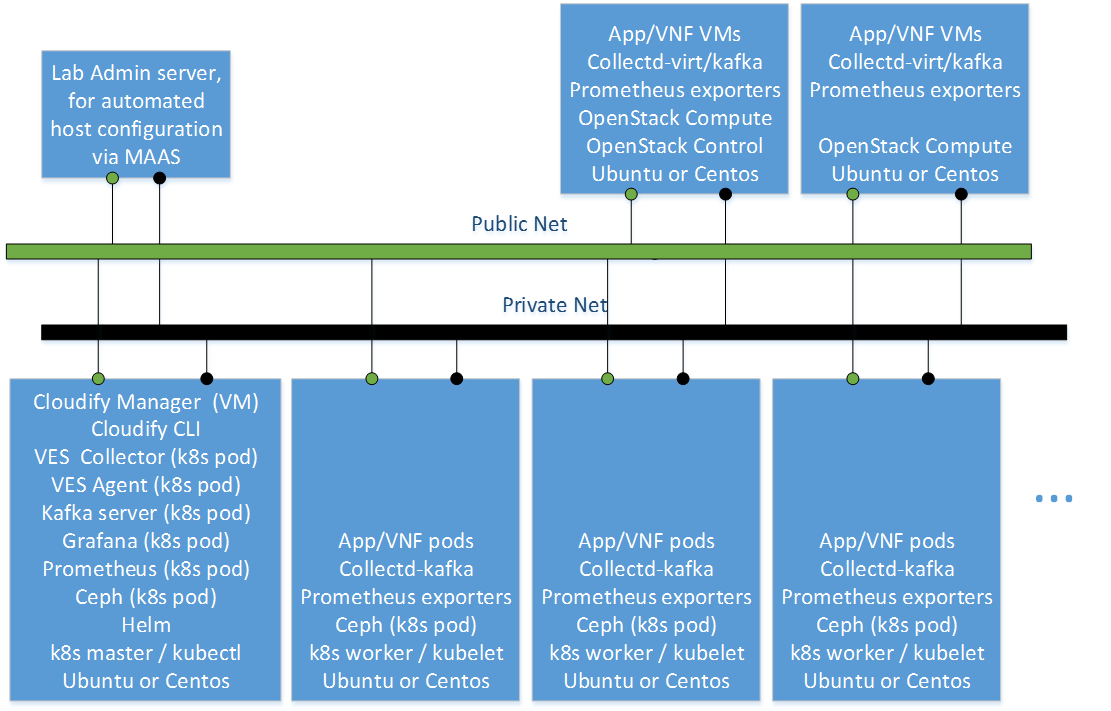
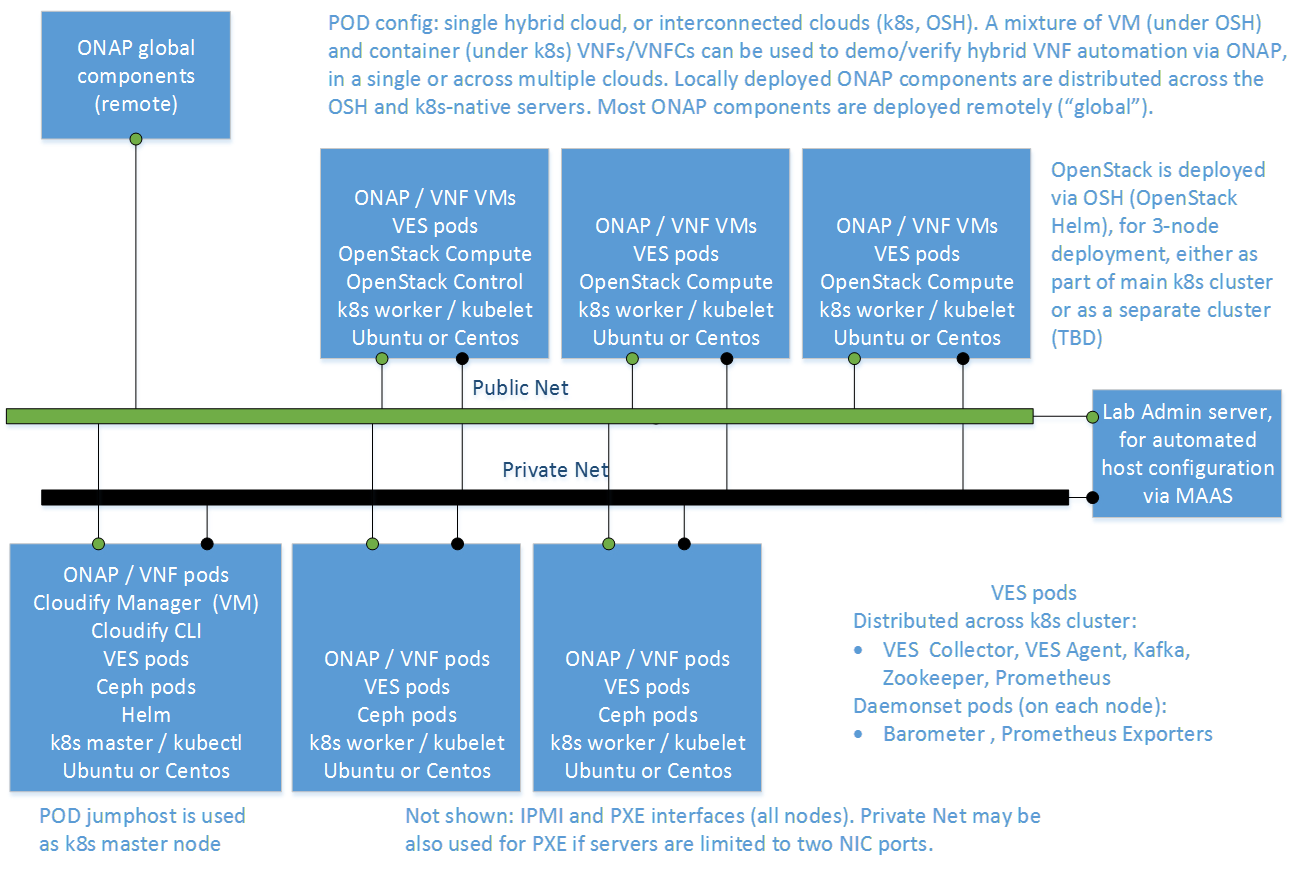
Update diagram and readme's
JIRA: MODELS-2

diff --git a/tools/kubernetes/README.md b/tools/kubernetes/README.md
@@ -12,11 +12,11 @@ This folder contains scripts etc to setup a kubernetes cluster with the followin
 * Kubernetes
   * single k8s master node
   * other k8s cluster worker nodes
-* Ceph: backend for persistent volume claims (PVCs) for the k8s cluster, deployed using Helm charts from https://github.com/att/netarbiter
+* Ceph: backend for persistent volume claims (PVCs) for the k8s cluster, deployed using Helm charts from [netarbiter](https://github.com/att/netarbiter)
 * Helm on k8s master (used for initial cluster deployment only)
-  * demo helm charts for Helm install verification etc, cloned from https://github.com/kubernetes/charts and modified/tested to work on this cluster
+  * demo helm charts for Helm install verification etc, cloned from [kubernetes charts](https://github.com/kubernetes/charts) and modified/tested to work on this cluster
 * Prometheus: server on the k8s master, exporters on the k8s workers
-* Cloudify CLI and Cloudify Manager with Kubernetes plugin (https://github.com/cloudify-incubator/cloudify-kubernetes-plugin)
+* Cloudify CLI and Cloudify Manager with [Kubernetes plugin](https://github.com/cloudify-incubator/cloudify-kubernetes-plugin)
 * OPNFV VES Collector and Agent
 * OPNFV Barometer collectd plugin with libvirt and kafka support
 * As many components as possible above will be deployed using k8s charts, managed either through Helm or Cloudify
@@ -25,7 +25,7 @@ A larger goal of this work is to demonstrate hybrid cloud deployment as indicate
 
 Here is an overview of the deployment process, which if desired can be completed via a single script, in about 50 minutes for a four-node k8s cluster of production-grade servers.
 * demo_deploy.sh: wrapper for the complete process
-  * ../maas/deploy.sh: deploys the bare metal host OS (Ubuntu or Centos currently)
+  * [/tools/maas/deploy.sh](/tools/maas/deploy.sh): deploys the bare metal host OS (Ubuntu or Centos currently)
   * k8s-cluster.sh: deploy k8s cluster
     * deploy k8s master
     * deploy k8s workers
@@ -33,8 +33,8 @@ Here is an overview of the deployment process, which if desired can be completed
     * verify operation with a hello world k8s chart (nginx)
     * deploy ceph (ceph-helm or on bare metal) and verify basic PVC jobs
     * verify operation with a more complex (PVC-dependent) k8s chart (dokuwiki)
-  * ../prometheus/prometheus-tools.sh: setup prometheus server, exporters on all nodes, and grafana
-  * ../cloudify/k8s-cloudify.sh: setup cloudify (cli and manager)
+  * [/tools/prometheus/prometheus-tools.sh](/tools/prometheus/prometheus-tools.sh): setup prometheus server, exporters on all nodes, and grafana
+  * [/tools/cloudify/k8s-cloudify.sh](/tools/cloudify/k8s-cloudify.sh): setup cloudify (cli and manager)
   * verify kubernetes+ceph+cloudify operation with a PVC-dependent k8s chart deployed thru cloudify
   * (VES repo) tools/demo_deploy.sh: deploy OPNFV VES
     * deploy VES collector
@@ -42,22 +42,20 @@ Here is an overview of the deployment process, which if desired can be completed
     * deploy VES dashboard in grafana (reuse existing grafana above)
     * deploy VES agent (OPNFV Barometer "VES Application")
     * on each worker, deploy OPNFV Barometer collectd plugin
-* when done, these demo elements are available
-  * Helm-deployed demo app dokuwiki, at the assigned node port on any k8s cluster node (e.g. http://$NODE_IP:$NODE_PORT)
-  * Cloudify-deployed demo app nginx at http://$k8s_master:$(assigned node port)
-  * Prometheus UI at http://$k8s_master:9090
-  * Grafana dashboards at http://$ves_grafana_host:3000
-  * Grafana API at http://$ves_grafana_auth@$ves_grafana_host:3000/api/v1/query?query=<string>
-  * Kubernetes API at https://$k8s_master:6443/api/v1/
-  * Cloudify API at (example): curl -u admin:admin --header 'Tenant: default_tenant' http://$k8s_master/api/v3.1/status
+* when done, these demo elements are available, as described in the script output
+  * Helm-deployed demo app dokuwiki
+  * Cloudify-deployed demo app nginx
+  * Prometheus UI
+  * Grafana dashboards and API
+  * Kubernetes API
+  * Cloudify API
 
 See comments in [setup script](k8s-cluster.sh) and the other scripts for more info.
 
-This is a work in progress!
-
-![Resulting Cluster](/docs/images/models-k8s.png?raw=true "Resulting Cluster")
+See [readme in the folder above](/tools/readme.md) for an illustration of the resulting k8s cluster in a hybrid cloud environment.
 
 The flow for this demo deployment is illustrated below.
 
 ![models_demo_flow.svg](/docs/images/models_demo_flow.svg "models_demo_flow.svg")
 
+This is a work in progress!

diff --git a/tools/README.md b/tools/README.md
@@ -4,19 +4,38 @@
 .. (c) 2017-2018 AT&T Intellectual Property, Inc
 -->
 
-This repo contains experimental scripts etc for setting up cloud-native stacks for application deployment and management on bare-metal servers. A lot of cloud-native focus so far has been on public cloud providers (AWS, GCE, Azure) but there aren't many tools and even fewer full-stack open source platforms for setting up bare metal servers with the same types of cloud-native stack features. Further, app modeling methods supported by cloud-native stacks differ substantially. The tools in this repo are intended to help provide a comprehensive, easily deployed set of cloud-native stacks that can be further used for analysis and experimentation on converged app modeling and lifecycle management methods, as well as other purposes, e.g. assessments of efficiency, performance, security, and resilience.
+This repo contains experimental scripts etc for setting up cloud-native and hybrid-cloud stacks for application deployment and management on bare-metal servers. The goal of these tools is to support the OPNFV Models project with various implementations of cloud-native and OpenStack-based clouds, as well as hybrid clouds. This will serve as a platform for testing modeled VNF lifecycle management in any one of these cloud types, or in a hybrid cloud environment. 
+
+In the process, this is intended to help developers automate setup of full-featured stacks, to overcome the sometimes complex, out-of-date, incomplete, or unclear directions provided for manual stack setup by the upstream projects.
+
+The tools in this repo are thus intended to help provide a comprehensive, easily deployed set of cloud-native stacks that can be further used for analysis and experimentation on converged app modeling and lifecycle management methods, as well as other purposes, e.g. assessments of efficiency, performance, security, and resilience.
 
 The toolset will eventually include these elements of one or more full-stack platform solutions:
-* hardware prerequisite/options guidance
-* container-focused application runtime environment, e.g.
-  * kubernetes
-  * docker-ce
-  * rancher
+* bare-metal server deployment
+  * [MAAS](https://maas.io)
+  * [Bifrost](https://docs.openstack.org/bifrost/latest/)
+* application runtime environments, also referred to as Virtual Infrastructure Managers (VIM) using the ETSI NFV terminology
+  * container-focused (often referred to as "cloud-native", although that term really refers to broader concepts)
+    * [Kubernetes](https://github.com/kubernetes/kubernetes)
+    * [Docker-CE (Moby)](https://mobyproject.org/)
+    * [Rancher](https://rancher.com/)
+  * VM-focused
+    * [OpenStack Helm](https://wiki.openstack.org/wiki/Openstack-helm)
 * software-defined storage backends, e.g.
-	* ceph
-* container networking (CNI)
+  * [Ceph](https://ceph.com/)
+* cluster internal networking
+  * [Calico CNI](https://github.com/projectcalico/cni-plugin)
 * app orchestration, e.g. via
-  * cloudify
-  * ONAP
-  * helm
+  * [Cloudify](https://cloudify.co/)
+  * [ONAP](https://www.onap.org/)
+  * [Helm](https://github.com/kubernetes/helm)
+  * [OpenShift Origin](https://www.openshift.org/)
+* monitoring and telemetry
+  * [OPNFV VES](https://github.com/opnfv/ves)
+  * [Prometheus](https://prometheus.io/)
 * applications useful for platform characterization
+  * [Clearwater IMS](http://www.projectclearwater.org/)
+
+An overall concept for how cloud-native and OpenStack cloud platforms will be deployable as a hybrid cloud environment, with additional OPNFV features such as VES, is shown below.
+
+![Hybrid Cloud Cluster](/docs/images/models-k8s.png?raw=true "Resulting Cluster")
